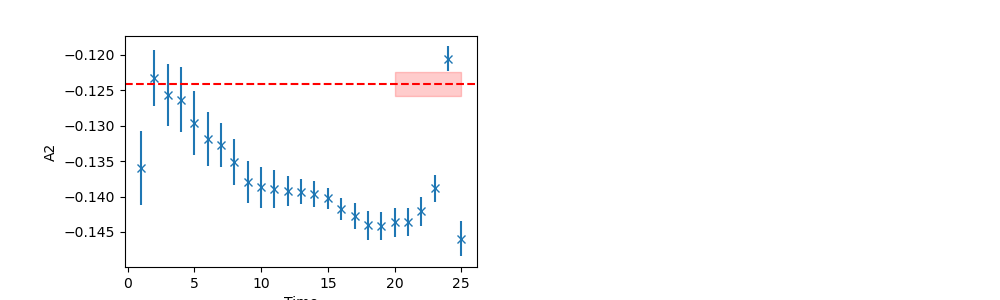
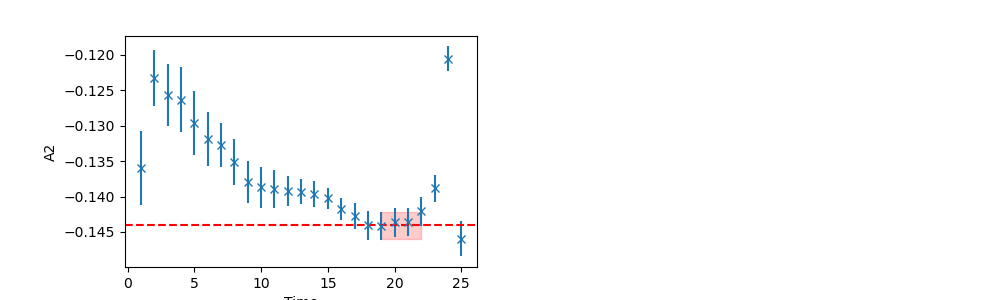
A2 ran thorugh

Changed region(s): [[0.124, 0.24, 0.465, 0.33], [0.372, 0.69, 0.434, 0.81]]

diff --git a/M2/A2-Av-improved.py b/M2/A2-Av-improved.py
@@ -48,7 +48,7 @@ def sum_with_exceptions_jack(lst,j,i):
 
 
 #########decide here which nsq
-nsq=2
+nsq=5
 ##########
 
 
